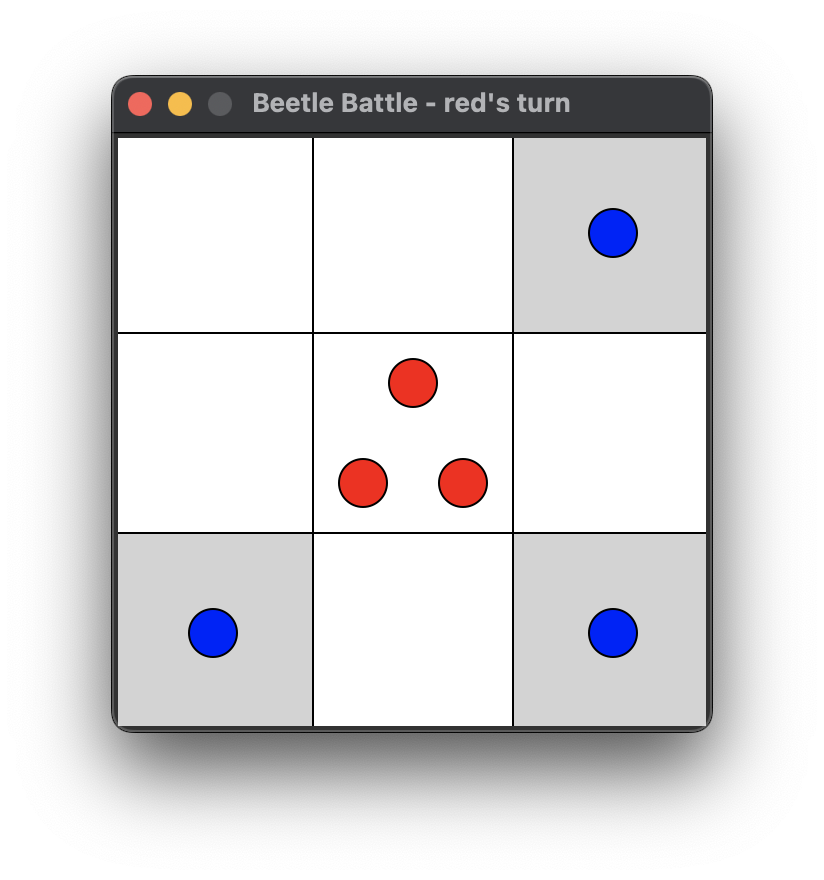
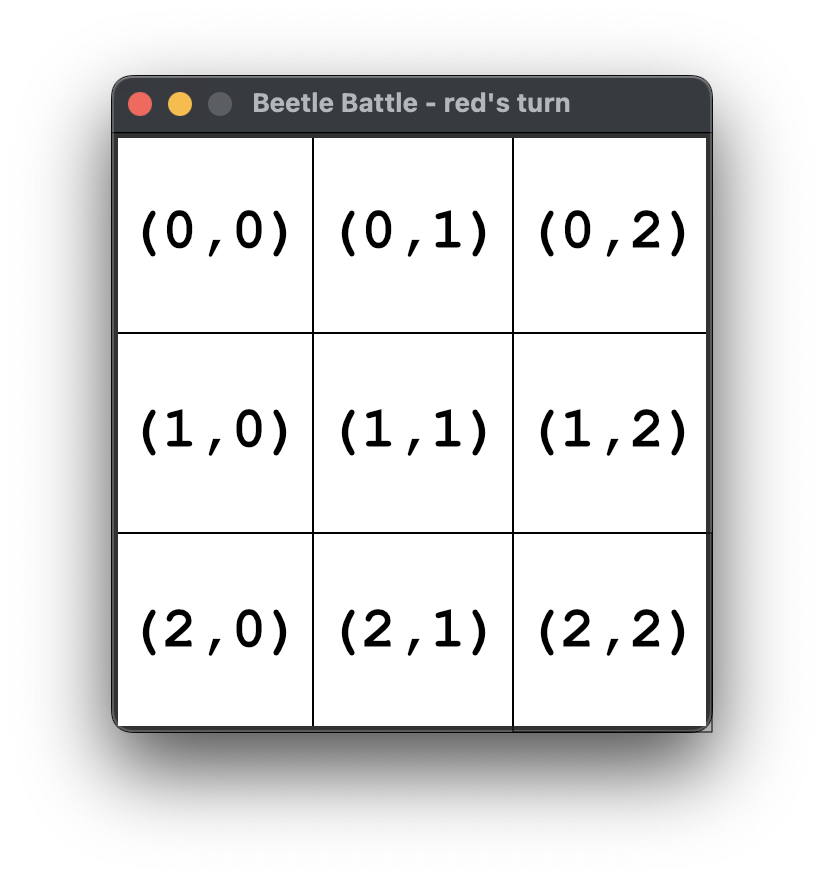
Manual update

diff --git a/manual/manual.md b/manual/manual.md
@@ -1,10 +1,49 @@
 # Beetle Battle game manual
 
+## Board
+Beetle Battle is a turn based board game. 
+
+### Dimension
+
+The board comprises NxN squares, with N being 3, 4, 5 or 10 as shown in the figures below.
+
+<img src="./fig_06.png" height="200">
+<img src="./fig_07.png" height="200">
+<img src="./fig_08.png" height="200">
+<img src="./fig_09.png" height="200">
+
+The dimension can be selected in the menu under the Board menu item.
+
+### Squares
+Squares are identified by their _row_ and _column_ as illustrated in the figure below.
+
+<img src="./fig_01.png" height="300">
+
+These coordinats are used to specify the move in stored games (see "[Save game](#save-game)).
+
+### Square capacity
+A square has a certain _capacity_ which is defined by the number of adjacent squares as illustratd in the figure below.
+
+<img src="./fig_02
+.png" height="300">
+
+The capacity indicates when the beetles will jump out of the square as will be described further below (see "[Jumping beetles](#jumping-beetles)").
+
 ## Making a move
 A beetle can be placed on an empty square or a square containing beetles of the same color.
 
 ## Jumping beetles
-When placing a beetle on a square and the number of beetles becomes the same as the capacity of the square, all beetles will jump to the adjacent tiles, one beetle to each adjacent tile as illustrated in the figures below.
+When placing a beetle on a square and the number of beetles becomes the same as the capacity of the square, all beetles will jump to the adjacent tiles, one beetle to each adjacent tile as illustrated in the figures below where a red beetle is placed on square (1,1) in the left figure, resulting in the beetles jumping to the adjacent squares resulting in the right figure.
 
-![fig_01](./fig_01.png)
-![fig_02](./fig_02.png)
+<img src="./fig_03.png" height="300">
+<img src="./fig_04.png" height="300">
+
+## Game over
+When a player has no more beetles on the board, it's game over as shown in the screenshot below.
+
+<img src="./fig_05.png" height="300">
+
+Pressing "OK" will start a new game.
+
+### Save game
+When the game end and the winner is announced, pressing "Save game" will create a CSV file with the moves and opens the file dialog to select the name of the file and location where to save it.
